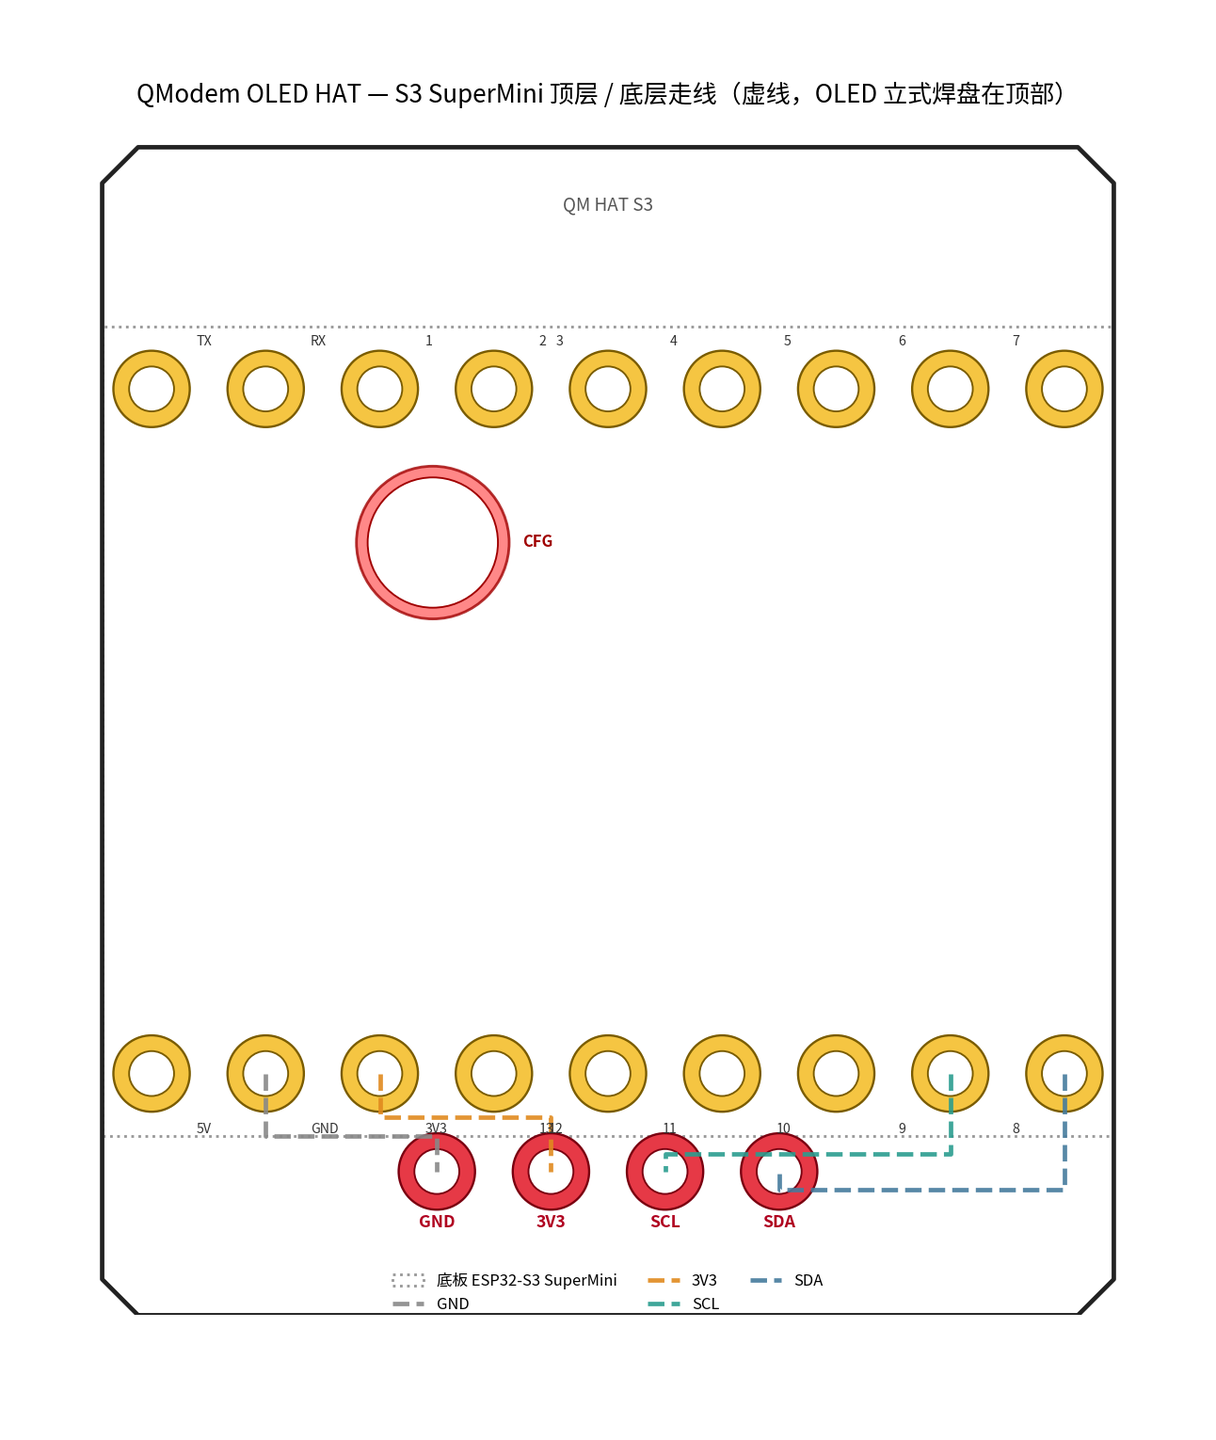
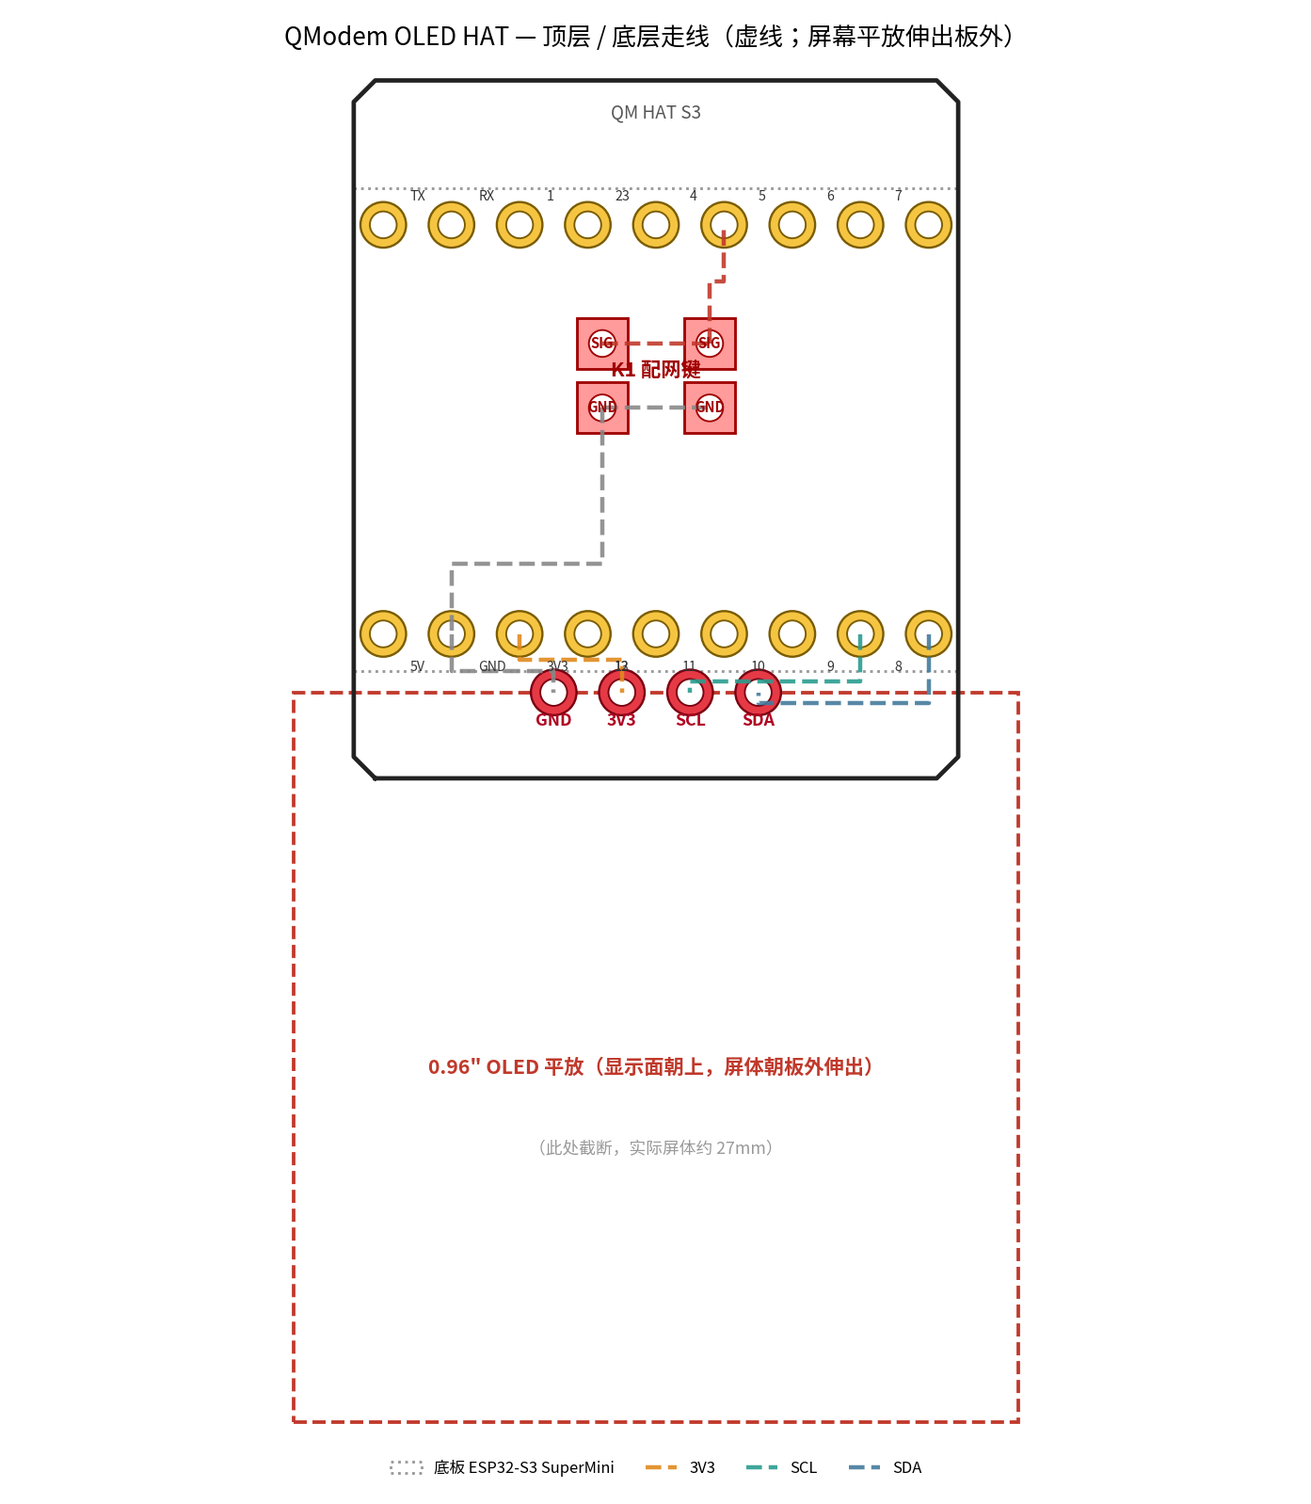
OLED扩展板改屏幕平放+板载配网键(IO4),复位靠断电
PCB:
- 屏幕从立式改平放:直排针焊板顶,屏体朝板外平躺伸出、显示面朝上,不遮挡板面
- 去掉对准底板BOOT的按键孔+按键帽,改为扩展板正面焊6x6轻触开关K1
- K1接IO4(排针已引出)+GND;底板BOOT/RESET未引到排针,不使用
- 重生成Gerber:26孔(排针18+OLED4+K1焊盘4),坐标唯一,5层结束符规范
- 重写顶视/装配侧视图与README

固件:
- config.h 配网引脚改为可覆盖(#ifndef),默认仍GPIO0(其它板板载BOOT)
- s3mini_oled_096 环境 -D CFG_PORTAL_PIN=4,对应扩展板K1
- 6个屏幕环境全部编译通过

diff --git a/pcb-oled-hat/generate_pcb.py b/pcb-oled-hat/generate_pcb.py
@@ -2,21 +2,20 @@
 # -*- coding: utf-8 -*-
 """
 QModem OLED HAT — ESP32-S3 SuperMini 专用 0.96" IIC OLED 扩展板
-生成标准 RS-274X Gerber + Excellon 钻孔 + 预览图 + 按键帽 STL。
+生成标准 RS-274X Gerber + Excellon 钻孔 + 预览图。
 
 板型(以用户实物为准,板面丝印 "ESP32-S3 Super Mini"):
   外形 22.52 x 18.00 mm,双排各 9 孔,孔距 2.54 mm,排距 15.24 mm
   上排(Y=-7.62,左->右): 5V GND 3V3 13 12 11 10 9 8
   下排(Y=+7.62,左->右): TX RX 1 2 3 4 5 6 7
-  注: 数字即 GPIO 号(IO1~IO13),TX/RX 为 USB 转串口占用,避免占用
 
-扩展板设计(屏幕立式,只引出一个配网键):
-  - 覆盖底板的 22.52x18 主体 + Y-端延伸 4mm 作为 OLED 立式焊盘区
-  - OLED 用 90° 弯排针竖立在板边,显示面朝板外(水平方向可见),
-    屏幕不再平铺在正面,按键区完全露出不被遮挡
+扩展板设计(屏幕平放 + 板载单个配网键):
+  - 屏幕平放:OLED 用直排针焊在板顶(Y-端)焊盘,屏体朝板外平躺伸出,
+    显示面朝上可见;屏体伸到板外,不遮挡扩展板正面
+  - 配网键:扩展板正面焊一颗 6x6 轻触开关 K1,一端接 IO4(排针已引出),
+    一端接 GND;单击进 WiFi 配网
   - 复位靠断电(拔电/断电重启)实现,不设 RESET 按键
-  - BOOT(GPIO0) 未引到排针,故开 1 个 Φ3.4 孔对准板上贴片 BOOT 按键,
-    附按键帽 STL 粘在贴片按键上穿出孔,单击即进 WiFi 配网
+  - 底板 BOOT(GPIO0)/RESET(EN) 未引到排针,故不使用底板按键
   - OLED 接线: VCC<-3V3, GND<-GND, SCL<-IO9, SDA<-IO8 (与固件 s3mini_oled_096 一致)
 """
 import os
@@ -39,7 +38,7 @@ OUT = os.path.join(HERE, 'generated')
 os.makedirs(OUT, exist_ok=True)
 
 # ---------- 几何参数(mm) ----------
-BW, BH = 22.52, 26.00          # 扩展板宽(X,对底板)×高(Y,底部多8mm放OLED焊盘区)
+BW, BH = 22.52, 26.00          # 扩展板宽(X,对底板)×高(Y,底部多8mm放丝印/余量)
 ROWS, PITCH = 9, 2.54
 HY = 7.62                      # 排针行距的一半(15.24/2)
 X0 = (ROWS - 1) * PITCH / 2    # 10.16,最左/最右孔 X
@@ -50,22 +49,29 @@ BOT = ['TX','RX','1','2','3','4','5','6','7']          # Y=+7.62
 headers = [(x, -HY, TOP[i]) for i, x in enumerate(XS)] + \
           [(x, +HY, BOT[i]) for i, x in enumerate(XS)]
 
-# 板上贴片按键中心(由尺寸网格图实测,板中心为原点)
-# 只引 BOOT 一个键作配网用;RESET 复位靠断电实现,不设按键孔
-BTN = [(-3.90, +4.20, 'CFG')]
-BTN_R = 1.70                   # Φ3.4 按键孔
-
-# OLED 4 焊盘(顶部延伸区,2.54 间距),用 90° 弯排针立式安装,显示面朝板外
+# OLED 4 焊盘(板顶 Y-端,2.54 间距),直排针平放,屏体朝板外伸出、显示面朝上
 oled = [(-3.81, -9.80, 'GND'), (-1.27, -9.80, '3V3'),
         (1.27, -9.80, 'SCL'), (3.81, -9.80, 'SDA')]
 PAD_R, HOLE_R = 0.85, 0.50     # 焊盘半径 / 孔半径
 
-# 底层走线:GND/3V3/SCL/SDA 从排针引到 OLED,均绕开按键孔
+# 配网键 K1:6x6 轻触开关 4 焊盘(中心约 0,+2),同侧两脚为同一电极
+#   下侧两脚(GND) / 上侧两脚(SIG->IO4);按下时两组接通
+K1 = [(-2.0, 0.8, 'GND'), (2.0, 0.8, 'GND'),
+      (-2.0, 3.2, 'SIG'), (2.0, 3.2, 'SIG')]
+K1_PAD_R = 0.95                 # 开关焊盘半径
+IO4_PIN = (2.54, 7.62)          # 下排 IO4(配网键信号,排针已引出)
+GND_PIN = (-7.62, -7.62)        # 上排 GND
+
+# 底层走线:GND/3V3/SCL/SDA(OLED) + K1(SIG/GND),均绕开排针孔
 routes = [
     ('GND', [(-7.62, -7.62), (-7.62, -9.00), (-3.81, -9.00), (-3.81, -9.80)]),
     ('3V3', [(-5.08, -7.62), (-5.08, -8.60), (-1.27, -8.60), (-1.27, -9.80)]),
     ('SCL', [(7.62, -7.62), (7.62, -9.40), (1.27, -9.40), (1.27, -9.80)]),
     ('SDA', [(10.16, -7.62), (10.16, -10.20), (3.81, -10.20), (3.81, -9.80)]),
+    ('GND', [(-2.0, 0.8), (2.0, 0.8)]),                       # K1 下侧两脚同电极
+    ('GND', [(-2.0, 0.8), (-2.0, -5.0), (-7.62, -5.0), (-7.62, -7.62)]),
+    ('SIG', [(-2.0, 3.2), (2.0, 3.2)]),                       # K1 上侧两脚同电极
+    ('SIG', [(2.0, 3.2), (2.0, 5.5), (2.54, 5.5), (2.54, 7.62)]),
 ]
 
 # ---------- Gerber 基础(FSLAX46Y46,单位 mm) ----------
@@ -107,6 +113,7 @@ FONT = {
  'S':[((.65,.8),(.4,.9)),((.4,.9),(.15,.75)),((.15,.75),(.2,.55)),((.2,.55),(.5,.5)),((.5,.5),(.6,.3)),((.6,.3),(.4,.1)),((.4,.1),(.1,.2))],
  'L':[((.05,.9),(.05,.1)),((.05,.1),(.6,.1))],
  'A':[((.05,.1),(.35,.9)),((.35,.9),(.65,.1)),((.18,.38),(.52,.38))],
+ 'F':[((.05,.9),(.05,.1)),((.05,.9),(.6,.9)),((.05,.5),(.5,.5))],
  '3':[((.1,.85),(.55,.85)),((.55,.85),(.6,.55)),((.6,.55),(.3,.5)),((.3,.5),(.6,.45)),((.6,.45),(.55,.15)),((.55,.15),(.1,.15))],
  'Q':[((.35,.9),(.6,.75)),((.6,.75),(.6,.35)),((.6,.35),(.35,.1)),((.35,.1),(.1,.35)),((.1,.35),(.1,.75)),((.1,.75),(.35,.9)),((.45,.3),(.68,.05))],
  'M':[((.05,.1),(.05,.9)),((.05,.9),(.35,.5)),((.35,.5),(.65,.9)),((.65,.9),(.65,.1))],
@@ -137,18 +144,22 @@ for x, y in all_pads:
     f_cu += flash(x, y, 10)
 write('QModem_OLED_HAT-F_Cu.gbr', f_cu)
 
-b_cu = header([(10, PAD_R*2), (11, 0.30)])
+b_cu = header([(10, PAD_R*2), (11, 0.30), (15, K1_PAD_R*2)])
 for x, y in all_pads:
     b_cu += flash(x, y, 10)
+for x, y, _ in K1:
+    b_cu += flash(x, y, 15)
 for name, pts in routes:
     for a, b in zip(pts, pts[1:]):
         b_cu += segment(a[0], a[1], b[0], b[1], 11)
 write('QModem_OLED_HAT-B_Cu.gbr', b_cu)
 
 # ---------- F.Mask ----------
-mask = header([(12, PAD_R*2 + 0.20)])
+mask = header([(12, PAD_R*2 + 0.20), (16, K1_PAD_R*2 + 0.20)])
 for x, y in all_pads:
     mask += flash(x, y, 12)
+for x, y, _ in K1:
+    mask += flash(x, y, 16)
 write('QModem_OLED_HAT-F_Mask.gbr', mask)
 
 # ---------- F.SilkS ----------
@@ -159,10 +170,9 @@ for a, b in zip(outline, outline[1:]):
 for label, (px, py, name) in zip(['GND','3V3','SCL','SDA'], oled):
     for (x1, y1), (x2, y2) in text_segs(label, px - 1.1, py - 2.2, size=0.62):
         silk += segment(x1, y1, x2, y2, 13)
-# 按键孔标注:用 name(配网键 CFG)
-for (bx, by, name) in BTN:
-    for (x1, y1), (x2, y2) in text_segs(name, bx - 1.3, by + 2.3, size=0.58):
-        silk += segment(x1, y1, x2, y2, 13)
+# 配网键标注 CFG(放在 K1 右侧)
+for (x1, y1), (x2, y2) in text_segs('CFG', 4.6, 1.8, size=0.72):
+    silk += segment(x1, y1, x2, y2, 13)
 # 排针丝印(上排/下排,沿板外方向排布)
 for x, y, n in headers:
     ny = y - 1.35 if y < 0 else y + 0.55
@@ -178,41 +188,34 @@ for a, b in zip(outline, outline[1:]):
     edge += segment(a[0], a[1], b[0], b[1], 14)
 write('QModem_OLED_HAT-Edge_Cuts.gbr', edge)
 
-# ---------- Excellon 钻孔(两种孔径) ----------
+# ---------- Excellon 钻孔(单一孔径:排针18+OLED4+K1焊盘孔4=26) ----------
 drl = ('M48\nMETRIC\n%%FSLAX33Y33*%%\n'
-       'T01C%.3f\nT02C%.3f\n%%\n' % (HOLE_R*2, BTN_R*2))
+       'T01C%.3f\n%%\n' % (HOLE_R*2))
 drl += 'T01\n'
 for x, y in all_pads:
     drl += 'X%dY%d\n' % (int(round(x*1000)), int(round(y*1000)))
-drl += 'T02\n'
-for x, y, _ in BTN:
+for x, y, _ in K1:
     drl += 'X%dY%d\n' % (int(round(x*1000)), int(round(y*1000)))
 drl += 'M30\n'
 write('QModem_OLED_HAT.drl', drl)
 
-# ---------- 按键帽 STL ----------
-try:
-    import trimesh
-    cap = trimesh.creation.cylinder(radius=1.60, height=4.50, sections=32)
-    flange = trimesh.creation.cylinder(radius=2.00, height=0.60, sections=32)
-    flange.apply_translation([0, 0, -1.95])
-    cap = trimesh.util.concatenate([flange, cap])
-    cap.export(os.path.join(HERE, 'button_cap.stl'))
-    print('button_cap.stl 已生成')
-except Exception as e:
-    print('按键帽生成跳过:', e)
-
 # ---------- 预览图:顶层布线 ----------
-fig, ax = plt.subplots(figsize=(7.6, 9))
+fig, ax = plt.subplots(figsize=(8.2, 9.4))
 poly = outline + [outline[0]]
 ax.plot([p[0] for p in poly], [p[1] for p in poly], color='#222', lw=2)
 # 底板轮廓(虚线,示意覆盖区)
 ax.add_patch(Rectangle((-BW/2, -9), BW, 18, fill=False, edgecolor='#999',
                        lw=1.2, ls=':', label='底板 ESP32-S3 SuperMini'))
-colors = {'GND':'#888', '3V3':'#e08a1e', 'SCL':'#2a9d8f', 'SDA':'#457b9d'}
+# 屏幕平放伸出示意(虚线框,朝 Y- 板外,截断显示)
+ax.add_patch(Rectangle((-13.5, -37.0), 27, 27.2, fill=False,
+                       edgecolor='#c0392b', lw=1.6, ls='--'))
+ax.text(0, -24.0, '0.96" OLED 平放（显示面朝上，屏体朝板外伸出）',
+        fontsize=9, ha='center', color='#c0392b', fontweight='bold')
+ax.text(0, -27.0, '（此处截断，实际屏体约 27mm）', fontsize=7.5, ha='center', color='#999')
+colors = {'GND':'#888', '3V3':'#e08a1e', 'SCL':'#2a9d8f', 'SDA':'#457b9d', 'SIG':'#c0392b'}
 for name, pts in routes:
-    ax.plot([p[0] for p in pts], [p[1] for p in pts], color=colors[name], lw=2.0,
-            ls='--', alpha=0.9, label=name)
+    ax.plot([p[0] for p in pts], [p[1] for p in pts], color=colors[name], lw=1.9,
+            ls='--', alpha=0.9, label=name if name not in ('GND','SIG') else None)
 # 排针孔
 for x, y, n in headers:
     ax.add_patch(Circle((x, y), PAD_R, facecolor='#f5c542', edgecolor='#7a5c00', lw=1))
@@ -221,58 +224,60 @@ for x, y, n in headers:
     dx = 1.0 if x < 0 else -1.0
     ax.text(x + dx, y - 1.25 if y < 0 else y + 1.05, n,
             fontsize=6.0, ha=ha, va='center', color='#333')
-# 按键孔(红色醒目)
-for x, y, n in BTN:
-    ax.add_patch(Circle((x, y), BTN_R, facecolor='#ff6b6b', edgecolor='#a00000', lw=1.2, alpha=0.8))
-    ax.add_patch(Circle((x, y), BTN_R - 0.25, facecolor='white', edgecolor='#a00000', lw=0.8))
-    ax.text(x + 2.0, y, n, fontsize=7.0, ha='left', va='center', color='#a00000', fontweight='bold')
 # OLED 焊盘
 for x, y, n in oled:
     ax.add_patch(Circle((x, y), PAD_R, facecolor='#e63946', edgecolor='#7a0010', lw=1))
     ax.add_patch(Circle((x, y), HOLE_R, facecolor='white', edgecolor='#7a0010', lw=0.8))
     ax.text(x, y - 1.25, n, fontsize=7.5, ha='center', color='#b00020', fontweight='bold')
-ax.set_title('QModem OLED HAT — S3 SuperMini 顶层 / 底层走线（虚线，OLED 立式焊盘在顶部）', fontsize=11, pad=10)
+# 配网键 K1 焊盘(方块)
+for x, y, n in K1:
+    ax.add_patch(Rectangle((x - K1_PAD_R, y - K1_PAD_R), K1_PAD_R*2, K1_PAD_R*2,
+                           facecolor='#ff9b9b', edgecolor='#a00000', lw=1.2))
+    ax.add_patch(Circle((x, y), HOLE_R, facecolor='white', edgecolor='#a00000', lw=0.8))
+    ax.text(x, y, n, fontsize=6.2, ha='center', va='center', color='#a00000', fontweight='bold')
+ax.text(0, 2.0, 'K1 配网键', fontsize=9, ha='center', color='#a00000', fontweight='bold')
+ax.set_title('QModem OLED HAT — 顶层 / 底层走线（虚线；屏幕平放伸出板外）', fontsize=11, pad=10)
 ax.text(0, 11.6, 'QM HAT S3', fontsize=8, ha='center', color='#555')
-ax.set_xlim(-13, 13); ax.set_ylim(-13, 13.5)
+ax.set_xlim(-15, 15); ax.set_ylim(-39, 13.5)
 ax.set_aspect('equal'); ax.axis('off')
-ax.legend(loc='lower center', ncol=3, fontsize=7, frameon=False, bbox_to_anchor=(0.5, -0.01))
+ax.legend(loc='lower center', ncol=4, fontsize=7, frameon=False, bbox_to_anchor=(0.5, -0.01))
 plt.tight_layout()
 plt.savefig(os.path.join(HERE, 'preview_top.png'), dpi=170, facecolor='white')
 plt.close()
 
-# ---------- 预览图:装配侧视(屏幕立式,显示面朝板外,按键朝上) ----------
-fig, ax = plt.subplots(figsize=(10.5, 6.5))
+# ---------- 预览图:装配侧视(屏幕平放、显示面朝上、配网键在板上) ----------
+fig, ax = plt.subplots(figsize=(11, 6.2))
 # 底板 S3 SuperMini
 ax.add_patch(Rectangle((3, 0), 19, 1.1, facecolor='#2f4f4f', edgecolor='#222', lw=1))
-ax.text(12.5, 0.55, 'S3 SuperMini 22.52×18mm（按键在正面）', fontsize=7.8,
+ax.text(12.5, 0.55, 'S3 SuperMini 22.52×18mm', fontsize=7.8,
         ha='center', va='center', color='white')
 # 排针(两处)
-for px in [9.5, 17.5]:
+for px in [7.0, 18.0]:
     ax.add_patch(Rectangle((px, 1.1), 0.7, 2.44, facecolor='#c9a227', edgecolor='#7a5c00'))
 # 扩展板 HAT
 ax.add_patch(Rectangle((3, 3.54), 19, 1.0, facecolor='#3b82c4', edgecolor='#222', lw=1))
-ax.text(12.5, 4.04, 'OLED HAT（本扩展板）', fontsize=8, ha='center', va='center', color='white')
-# 配网键帽:从底板 BOOT 贴片按键穿出扩展板孔,朝上露出(复位靠断电,不设 RESET 键)
-px = 13.0
-ax.add_patch(Rectangle((px, 1.1), 1.1, 3.9, facecolor='#ff6b6b', edgecolor='#a00000'))
-ax.add_patch(Rectangle((px - 0.15, 5.0), 1.4, 0.55, facecolor='#ff9b9b', edgecolor='#a00000'))
-ax.annotate('', xy=(px + 0.4, 7.1), xytext=(px + 0.4, 5.7),
-            arrowprops=dict(arrowstyle='-|>', color='#a00000', lw=1.4))
-ax.text(px + 0.4, 7.3, '配网键 单击', fontsize=7.4, ha='center', color='#a00000')
-# OLED 立式屏:90°弯排针焊在板左端焊盘,屏体竖立,显示面朝左(板外/前方)
-ax.add_patch(Rectangle((3, 4.54), 1.6, 15.5, facecolor='#1a1a1a', edgecolor='#000', lw=1))
-ax.add_patch(Rectangle((3, 6.4), 1.6, 11.7, facecolor='#103a5c', edgecolor='#0a2740'))  # 有效显示区
-ax.annotate('', xy=(0.6, 12.3), xytext=(2.7, 12.3),
-            arrowprops=dict(arrowstyle='->', color='#c0392b', lw=1.8))
-ax.text(0.3, 13.4, '显示面朝前', fontsize=8, ha='center', va='bottom', color='#c0392b')
-ax.text(0.3, 10.9, '0.96" OLED 立式', fontsize=7.6, ha='center', va='top', color='#c0392b')
-ax.text(2.9, -0.2, '90°弯排针', fontsize=7, ha='left', va='top', color='#7a5c00')
+ax.text(15.5, 4.04, 'OLED HAT（本扩展板）', fontsize=8, ha='center', va='center', color='white')
+# 屏幕平放:直排针把 OLED 顶起,屏体朝板外(左)平躺伸出,显示面朝上(+Z)
+ax.add_patch(Rectangle((4.2, 4.54), 0.7, 1.4, facecolor='#c9a227', edgecolor='#7a5c00'))  # 直排针
+ax.add_patch(Rectangle((-7.0, 5.94), 12.0, 1.2, facecolor='#1a1a1a', edgecolor='#000', lw=1))
+ax.add_patch(Rectangle((-7.0, 6.14), 12.0, 0.82, facecolor='#103a5c', edgecolor='#0a2740'))  # 显示区朝上
+ax.annotate('', xy=(-1.0, 8.2), xytext=(-1.0, 7.2),
+            arrowprops=dict(arrowstyle='-|>', color='#c0392b', lw=1.6))
+ax.text(-1.0, 8.5, '显示面朝上（平放）', fontsize=8, ha='center', color='#c0392b')
+ax.text(-7.2, 6.6, '屏体朝板外伸出', fontsize=7.4, ha='right', va='center', color='#555')
+# 配网键 K1:贴片轻触开关焊在扩展板正面,向下按
+bx = 15.0
+ax.add_patch(Rectangle((bx - 1.5, 4.54), 3.0, 1.1, facecolor='#ff6b6b', edgecolor='#a00000'))
+ax.text(bx, 5.1, 'K1', fontsize=7.6, ha='center', va='center', color='white', fontweight='bold')
+ax.annotate('', xy=(bx, 6.6), xytext=(bx, 5.7),
+            arrowprops=dict(arrowstyle='-|>', color='#a00000', lw=1.6))
+ax.text(bx, 6.9, '配网键 单击', fontsize=7.6, ha='center', color='#a00000')
 # 说明
-ax.text(12.5, -1.3, '屏幕立式朝前显示；配网键单击进配网；复位直接断电，无需 RESET 键',
+ax.text(6.0, -1.3, '屏幕平放（显示面朝上、屏体伸到板外不遮挡）· 扩展板板载 K1 配网键 · 复位直接断电',
         fontsize=8.6, ha='center', color='#333')
-ax.set_xlim(-9, 26); ax.set_ylim(-2.0, 21.5)
+ax.set_xlim(-10, 26); ax.set_ylim(-2.0, 10.0)
 ax.set_aspect('equal'); ax.axis('off')
-ax.set_title('装配侧视 — 屏幕立式 / 单个配网键', fontsize=11, pad=8)
+ax.set_title('装配侧视 — 屏幕平放 / 板载单个配网键', fontsize=11, pad=8)
 plt.tight_layout()
 plt.savefig(os.path.join(HERE, 'preview_assembly.png'), dpi=170, facecolor='white')
 plt.close()
@@ -280,4 +285,4 @@ plt.close()
 print('生成完成:')
 for f in sorted(os.listdir(OUT)):
     print('  generated/' + f)
-print('  preview_top.png, preview_assembly.png, button_cap.stl')
+print('  preview_top.png, preview_assembly.png')

diff --git a/pcb-oled-hat/README.md b/pcb-oled-hat/README.md
@@ -1,18 +1,16 @@
 # QModem OLED HAT — ESP32-S3 SuperMini 专用扩展板
 
-一块插在 **ESP32-S3 SuperMini** 上的 0.96 寸 IIC OLED 扩展板。**屏幕立式安装**（竖在板边、显示面朝前），板顶只引出一个**配网键**（单击进 WiFi 配网）——两者互不遮挡，不用翻面、不用飞线。**复位靠断电（拔电重新上电）实现，不设 RESET 按键**。
+插在 **ESP32-S3 SuperMini** 上的 0.96 寸 IIC OLED 扩展板。**屏幕平放**（直排针焊在板顶，屏体朝板外伸出、显示面朝上），扩展板正面板载一颗 **K1 配网键**（单击进 WiFi 配网）。**复位靠断电**（拔电再上电），不设 RESET 按键。不用翻面、不用飞线。
 
 > ⚠ 适配板型：板面丝印 **`ESP32-S3 Super Mini`**、外形 **22.52 × 18 mm**、双排各 **9 孔**（排距 15.24 mm / 孔距 2.54 mm）。**不是** ESP32-C3 SuperMini（那是 8 孔一排），下单前务必核对你的板子。
 
-## 为什么屏幕立式
+## 布局与按键
 
-- **平放正面**（朝上）：0.96 OLED 模块约 27×27 mm，会盖住板上的 BOOT 贴片按键
-- **平放背面**（朝底板）：显示面贴着底板看不见，设备翻过来则按键朝下按不到
-- **立式**（本方案）：90° 弯排针把屏竖在板边，显示面朝前水平可见，配网键从顶面直接按——**唯一能同时"看得见 + 按得到"的装法**
+- **屏幕平放**：OLED 模块用直排针焊在扩展板板顶（Y-端）的 4 个焊盘，屏体朝板外平躺伸出，显示面朝上。屏幕伸到板子外侧，因此**不遮挡扩展板正面的配网键**。
+- **配网键 K1**：扩展板正面焊一颗 **6×6 mm 轻触开关**，接 **IO4（信号）+ GND**（底板 BOOT/GPIO0、RESET/EN 都没引到排针，用不了，所以用引出的 IO4）。**单击一下**进 WiFi 配网。
+- **复位**：不设按键，**直接断电再上电**即可（等同硬件复位）。
 
-## 按键说明
-
-板上只引出一个**配网键 CFG**（对准底板的 BOOT/GPIO0 贴片按键）：**单击一下**即进入 WiFi 配网热点，用手机配置。复位不需要按键——**直接断电再上电**即可（等同于硬件 RESET）。
+> 关于 IO4：这是排针上已引出的空闲 GPIO，固件 `s3mini_oled_096` 环境已把配网键配到 IO4（`CFG_PORTAL_PIN=4`）。换别的脚要同时改 PCB 走线和固件里的这个值。
 
 ## 引脚连接
 
@@ -23,7 +21,12 @@
 | SCL  | SCL | **IO9** |
 | SDA  | SDA | **IO8** |
 
-与固件 `s3mini_oled_096` 环境的默认引脚一致；如需换脚，改 `platformio.ini` 里的 `OLED_SDA` / `OLED_SCL`。
+| 配网键 K1 | 接到 S3 |
+|-----------|---------|
+| 一侧 | **IO4** |
+| 另一侧 | GND |
+
+与固件 `s3mini_oled_096` 环境默认引脚一致；如需换脚，改 `platformio.ini` 里的 `OLED_SDA` / `OLED_SCL` / `CFG_PORTAL_PIN`。
 
 ## 打样参数（嘉立创等）
 
@@ -31,8 +34,8 @@
 |------|--------|
 | 板材 / 厚度 | FR-4 / **1.0 mm** |
 | 铜厚 | 1 oz |
-| 板子外形 | 22.52 × 26 mm（顶部延伸 8 mm 放 OLED 焊盘） |
-| 孔 | 排针孔 1.0 mm、配网键孔 3.4 mm，共 23 个 |
+| 板子外形 | 22.52 × 26 mm |
+| 孔 | 全部 1.0 mm，共 **26 个**（排针 18 + OLED 4 + 配网键 4） |
 | 阻焊 / 字符 | 绿油白字（任意） |
 | 数量 | 5 片起 |
 
@@ -41,12 +44,12 @@
 ## 焊接步骤
 
 1. 把 **2×9 排针母座**焊在扩展板两排孔（插到底板用），焊盘在底层（B.Cu）。
-2. 把 **90° 弯排针**焊在顶部 4 个 OLED 焊盘，弯折方向朝板外（让屏竖起后显示面朝前）。
-3. 把 0.96 OLED 模块插到弯排针上，屏体竖直，显示面朝外。
-4. 把 **1 个按键帽**（`button_cap.stl`，可 3D 打印）用双面胶粘在底板 BOOT 贴片按键上，使其穿出扩展板那个 Φ3.4 孔、顶面略高于板面（配网键）。复位不用按键，断电即可。
+2. 把 **直排针**焊在板顶 4 个 OLED 焊盘（GND/3V3/SCL/SDA），针脚朝上。
+3. 把 0.96 OLED 模块插到排针上，**平躺、屏体朝板外伸出、显示面朝上**（接线按上表，若屏不亮先核对 GND/VCC）。
+4. 把一颗 **6×6 mm 轻触开关**焊在正面 K1 的 4 个焊盘（同侧两脚是一组：下侧两脚 GND、上侧两脚 IO4；若接反调换即可，按键不分极性）。
 5. 扩展板对准底板两排排针插下，插到底。
 
-> 若 BOOT 贴片按键位置与孔位有偏差（板子批次差异），改 `generate_pcb.py` 里的 `BTN` 坐标重跑即可。
+> 若 OLED 或按键焊盘位置有偏差（板子批次差异），改 `generate_pcb.py` 里的 `oled` / `K1` / `IO4_PIN` 坐标重跑即可。
 
 ## 文件说明
 
@@ -54,11 +57,10 @@
 |------|------|
 | `generate_pcb.py` | 参数化生成脚本（改尺寸/孔位/走线后重跑） |
 | `generated/*.gbr` | 5 层 Gerber：F.Cu / B.Cu / F.Mask / F.SilkS / Edge.Cuts |
-| `generated/*.drl` | Excellon 钻孔 |
-| `preview_top.png` | 顶层布线和孔位预览 |
-| `preview_assembly.png` | 装配侧视（屏幕立式 / 单个配网键朝上） |
-| `button_cap.stl` | 配网键帽，粘在 BOOT 贴片按键上穿出扩展板孔 |
+| `generated/*.drl` | Excellon 钻孔（26 孔） |
+| `preview_top.png` | 顶层 / 底层走线 + 屏幕平放伸出示意 |
+| `preview_assembly.png` | 装配侧视（屏幕平放 / 板载配网键 / 复位断电） |
 
 ## 配套固件
 
-仓库 `esp32-firmware/` 目录，`s3mini_oled_096` 环境，支持手机配网（无需改代码填 WiFi）。
+仓库 `esp32-firmware/` 目录，`s3mini_oled_096` 环境（配网键已设为 IO4），支持手机配网（无需改代码填 WiFi）。烧录：`pio run -e s3mini_oled_096 -t upload`。
